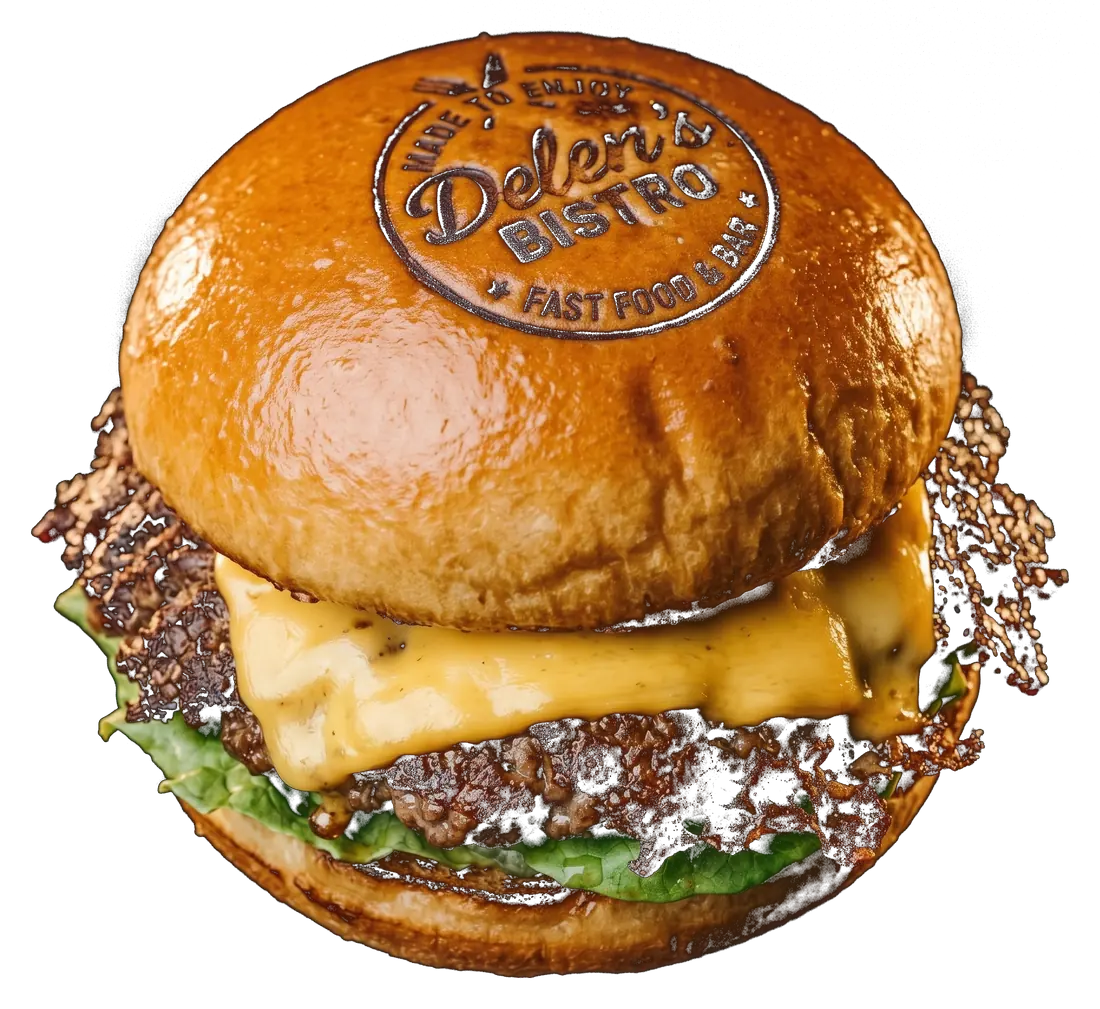
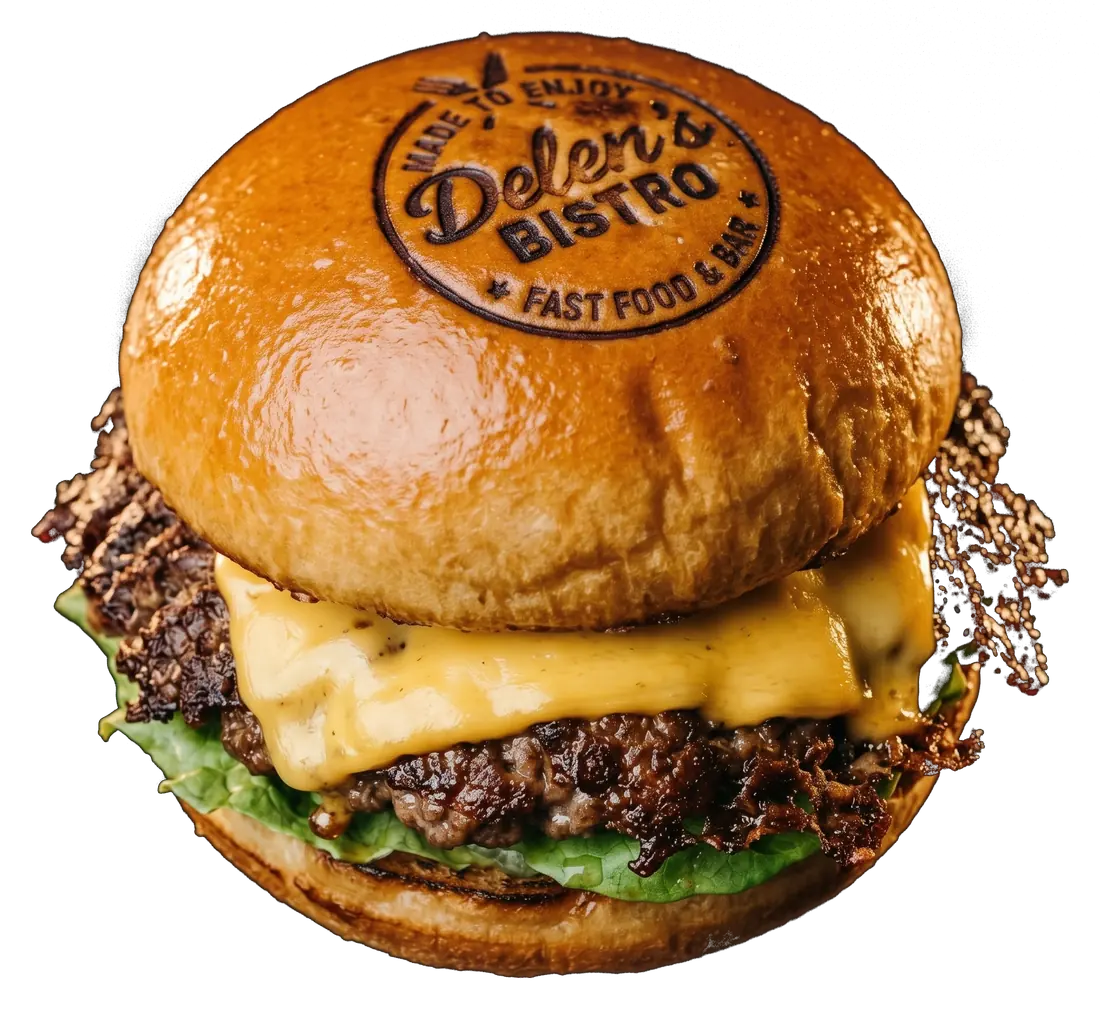
Hål i hjälteburgaren, vänd avskalning, loggan avgjord i PLAN
1 · HÅLEN I HJÄLTEBURGAREN

Alfakanalen byggdes ur ljusstyrkan ensam, med rampen 14 -> 34. Den
premissen — mörk betyder bakgrund — gäller inte för en burgare.
Skuggan under bullen och de brända kanterna på köttet är lika mörka
som bottnen, hamnade i rampen och blev delvis genomskinliga. 193 692
pixlar i B1 låg mellan 14 och 34. Konturtexten DELENS lyste igenom
motivets mörkaste partier, och det var det första man såg på sidan.

Rättningen avgör bakgrund på SAMMANHANG i stället för på ljusstyrka.
Bakgrunden är den mörka yta som hänger ihop med bildens kant; en mörk
fläck inne i burgaren hänger inte ihop med kanten och ska vara kvar.
Översvämning från ramen genom allt mörkare än HI, sedan alfa ur
rampen BARA inuti den översvämmade ytan — silhuetten behåller sin
mjuka antialiasade kant, allt som inte är bakgrund blir helt
ogenomskinligt.

  räddade motivpixlar   B1 168 549   B2 131 318

Pipelinen mäter numera ramens ljusaste pixel och AVBRYTER om motivet
rör bildkanten, eftersom översvämningen då skulle läcka in i
burgaren. Uppmätt: B1 15,1 och B2 17,2 mot HI 34 — god marginal.

ANDRA FELET, HITTAT UNDER KONTROLLEN: alphaQuality låg på 90.
Alfakanalen komprimerades alltså förstörande, och bruset landade som
delvis genomskinliga pixlar mitt i motivet — exakt samma hål som just
rättats, återinförda av kodaren. Mätt med översvämning på UTDATAN:

  äkta inre hål   före  B1 20 042   B2 36 708
                  efter B1     27   B2     30
[…]

diff --git a/src/main.js b/src/main.js
@@ -600,6 +600,16 @@ function riggaStickers() {
       for (const p of poster) {
         if (!p.isIntersecting) continue;
         p.target.setAttribute('data-synlig', 'true');
+        // Märken som inte scrubbas trycks ned här i stället. CSS:en
+        // håller fördröjningen så att landningen hinner läsas först.
+        //
+        // Nedtryckningen väntar en bildruta: övergången för --skal
+        // armas av data-synlig, och sätts värdet i samma omgång som
+        // attributet finns inget gammalt läge att gå ifrån.
+        if (p.target.classList.contains('sticker--hero')) {
+          const mal = p.target;
+          requestAnimationFrame(() => mal.style.setProperty('--skal', '0'));
+        }
         io.unobserve(p.target);
       }
     },
@@ -788,17 +798,33 @@ function riggaVagor() {
    vänstra hörnet, flärpen är hörnet vikt tillbaka över vecket, och
    glansen är en ljusreflex som följer pekaren.
 
-   Avskalningen drivs av hur långt märket passerat vyns mitt. Den
-   går bara EN väg per passage: skalar man av ett klistermärke sätts
-   det inte tillbaka av sig självt. Att låta flärpen vika sig fram
-   och tillbaka när man scrollar upp och ned hade läst som en
-   trasig animation, inte som en avskalning.                        */
+   RIKTNINGEN. Märket kommer UPPVIKT och rullas ned på plats när man
+   scrollar förbi. Tvärtom — fastklistrat som rivs upp — var det
+   första bygget, och det läste fel: sidan rev sönder sin egen dekor
+   medan man tittade på den. Ett klistermärke sätts dit, det tas inte
+   bort. Nu är flärpen uppe när märket kommer in i vyn och ligger ned
+   när man passerat det.
+
+   Rörelsen går bara EN väg per besök. Att låta flärpen vika sig fram
+   och tillbaka när man scrollar upp och ned hade läst som en trasig
+   animation, inte som ett märke som sätts fast.
+
+   Utgångsläget sätts härifrån av samma skäl som ankomsten: utan JS
+   ska märket ligga fastklistrat, inte uppvikt. CSS-förvalet är 0.  */
 
 function riggaAvskalning() {
   const marken = $$('.sticker');
   if (!marken.length) return;
 
-  const spar = marken.map((m) => ({ m, inne: false, max: 0 }));
+  const spar = marken
+    .map((m) => {
+      if (!reducerad.matches) m.style.setProperty('--skal', '1');
+      return { m, inne: false, min: 1 };
+    })
+    // Hero-märket står över vyns mitt redan vid sidladdning och kan
+    // därför inte scrubbas — det skulle stå kvar halvuppvikt tills
+    // någon scrollar. Det rullas ned på tid i stället, av ankomsten.
+    .filter((s) => !s.m.classList.contains('sticker--hero'));
 
   const io = new IntersectionObserver(
     (poster) => {
@@ -819,11 +845,13 @@ function riggaAvskalning() {
       if (!s.inne) continue;
       const r = s.m.getBoundingClientRect();
       const mitt = r.top + r.height / 2;
-      // 0 vid vyns mitt, 1 när märket nått en fjärdedel upp.
-      const gatt = Math.min(1, Math.max(0, (h * 0.5 - mitt) / (h * 0.28)));
-      if (gatt <= s.max) continue;
-      s.max = gatt;
-      s.m.style.setProperty('--skal', gatt.toFixed(3));
+      // 0 medan märket är på väg upp mot vyns mitt, 1 när det nått en
+      // fjärdedel upp. Flärpen är alltså uppe när märket kommer in.
+      const rullat = Math.min(1, Math.max(0, (h * 0.5 - mitt) / (h * 0.28)));
+      const skal = 1 - rullat;
+      if (skal >= s.min) continue; // bara nedåt, aldrig tillbaka upp
+      s.min = skal;
+      s.m.style.setProperty('--skal', skal.toFixed(3));
     }
   });
 }

diff --git a/src/style.css b/src/style.css
@@ -2104,11 +2104,62 @@ input:focus-visible {
    triangel. scaleY -0,92 i stället för -1 ger förkortningen av en
    flärp som lutar mot betraktaren.
 
-   --skal går 0 till 1 och skrivs från scrollvarvet.               */
+   RIKTNINGEN: märket kommer UPPVIKT och rullas ned på plats när man
+   scrollar förbi, inte tvärtom. Ett klistermärke sätts dit; det river
+   inte upp sig självt medan man tittar på det. --skal går alltså från
+   1 till 0 under passagen, en väg, och skrivs från scrollvarvet.
+
+   CSS-förvalet är 0, alltså fastklistrat. Uppvikningen sätts från JS
+   — utan skript ska märket ligga ned, inte hänga löst.            */
+
+/* Registrerad för att den ska gå att övergå. En orgistrerad egen
+   egenskap är en sträng för webbläsaren och hoppar mellan värden;
+   som <number> interpolerar den. Behövs för hero-märket, se nedan. */
+@property --skal {
+  syntax: '<number>';
+  inherits: true;
+  initial-value: 0;
+}
 
 /* Vecket, räknat uppifrån. Vid --skal 0 ligger det på underkanten. */
 .sticker {
   --veck: calc(100% - var(--skal, 0) * 21%);
+}
+
+/* HERO-MÄRKET RULLAS NED PÅ TID, INTE PÅ SCROLL.
+
+   Rullsträckan är 28 procent av vyhöjden, men hero-märket står redan
+   över vyns mitt när sidan laddas — det har 60 px scroll på sig att
+   klara en sträcka på 235. Följden var att det stod kvar 77 procent
+   uppvikt i viloläge och sedan snäppte ned. Tre fjärdedels uppvikt är
+   dessutom det fulaste läget i hela spannet, och det var det första
+   man såg på sidan.
+
+   Ett scroll-scrubbat läge ovanför mitten är alltid fel: dess
+   tillstånd beror på var sidan råkar stå. Här ska märket i stället
+   SÄTTAS DIT — det landar med ankomsten och trycks ned strax efter.
+   Fördröjningen gör de två till en följd i stället för till två
+   rörelser ovanpå varandra. */
+/* Övergången är armad först när märket ANLÄNT, inte innan.
+
+   Utgångsläget --skal 1 sätts från JS vid riggningen. Låg övergången
+   på data-ankomst skulle även den sättningen animeras, alltså skulle
+   märket vika UPP sig av sig självt — precis det beteende som just
+   vändes bort. Bakom laddskärmen syns det inte, men vid återbesök
+   hoppas laddskärmen över och då sker uppvikningen mitt i bild.
+
+   På data-synlig är värdet redan 1 när övergången börjar gälla, och
+   den enda förflyttning som kan ske är nedåt.
+
+   Hela listan upprepas för att ankomstens transition står på
+   .sticker[data-ankomst] med samma specificitet; utan upprepning
+   skulle den här regeln slå ut opacity, scale och rotate. */
+.sticker--hero[data-synlig='true'] {
+  transition:
+    opacity 380ms var(--ut),
+    scale 380ms var(--ut),
+    rotate 380ms var(--ut),
+    --skal 700ms var(--ut) 260ms;
 }
 
 .sticker__blad {
@@ -2432,6 +2483,10 @@ input:focus-visible {
 
   .wave {
     transform: none;
+  }
+
+  .sticker--hero[data-synlig='true'] {
+    transition: opacity 200ms linear;
   }
 
   .sticker__blad {

diff --git a/index.html b/index.html
@@ -17,6 +17,11 @@
       apostrofvarianten går sönder i praktiken — flera register bär
       redan akut accent (´) i stället för apostrof, vilket är en av
       orsakerna till att namnet finns i åtta stavningar på nätet.
+
+      Regeln gäller SATT TEXT: den här sidans titel, beskrivning,
+      og-taggar, strukturerad data, rubriker, wordmark, footer och
+      alt-texter. Den gäller INTE loggan. Loggan är kundens ordmärke,
+      den stavas "Delen's", och den är låst — se PLAN.md avsnitt 14.
     -->
     <title>Delens Bistro — smashade burgare i Upplands Väsby</title>
     <meta

diff --git a/PLAN.md b/PLAN.md
@@ -424,3 +424,36 @@ knappar och klistermärken. Vikt 800 för rubriker, 400–600 för löptext.
   latin-intervallet hämtas och åäö ligger i det.
 - Vid skarp lansering självhostas båda och delmängdas på riktigt.
   Prestandabudgeten i avsnitt 8 säger två woff2-filer; det håller.
+
+---
+
+## 14. Loggan — avgjort, tas inte upp igen
+
+Restaurangens logga stavar namnet **Delen's** med apostrof. Den är
+kundens, den är låst, och det är ett avgjort beslut.
+
+**Gäller:** `delens-logo-sticker`, hero-burgarens inbakade bröd-logga
+i B1 och B2, och varje annan plats där loggan förekommer som bild.
+
+**Ingen ska:**
+
+- rita om loggan
+- föreslå att den ritas om
+- flagga apostrofen som ett fel i en granskning, en rapport eller en
+  kodkommentar
+- hålla tillbaka en bild, en placering eller ett bygge på grund av den
+
+### Varför det här står här
+
+Namnformen i avsnittet om löpande text är **Delens Bistro** utan
+apostrof, och den gäller fortfarande för allt som är SATT TEXT: h1,
+title, meta description, og:title, og:site_name, strukturerad data,
+navigationens wordmark, footern, alt-texter och formulärtexter.
+
+Skillnaden är att loggan inte är satt text. Den är ett ordmärke, en
+bild, en befintlig tillgång. En låst textnamnform säger ingenting om
+hur kundens logotyp ser ut, och de två reglerna står inte i konflikt.
+
+Den här punkten finns eftersom apostrofen flaggades som ett fel i tre
+rapporter i rad. Det var fel läsning av namnformsregeln. Den läsningen
+slutar här.
